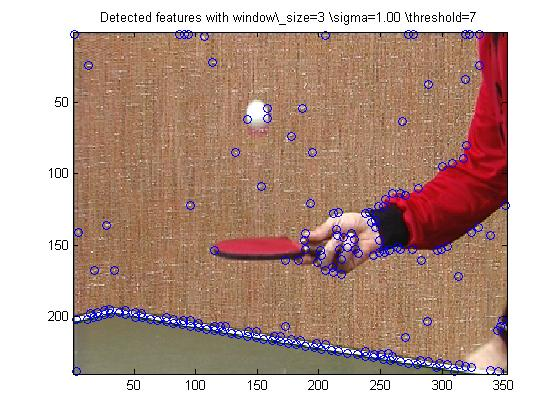
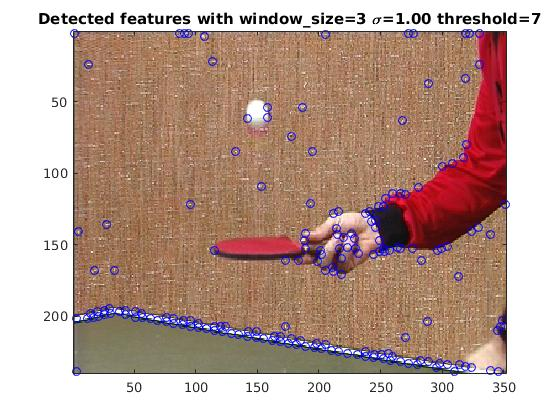
renamed gaussian derivative & correct gradient

diff --git a/3-assignment/harris_corners.m b/3-assignment/harris_corners.m
@@ -7,14 +7,14 @@ im = im2double(im_gray);
 
 
 %% Compute gaussian partial derivatives
-kernel_y = gaussian(sigma, kernel_length);
-kernel_x = kernel_y';
+kernel_x = gaussian(sigma, kernel_length);
+kernel_y = kernel_x';
 
 
 %% Convolve image with gaussian derivative
 % to obtain gradients in X and Y directions
-Ix = gaussianDer(im, kernel_x, sigma, 'x');
-Iy = gaussianDer(im, kernel_y, sigma, 'y');
+Ix = gaussian_der(im, kernel_x, sigma, 'x');
+Iy = gaussian_der(im, kernel_y, sigma, 'y');
 
 
 figure % Plot gradient images
@@ -73,7 +73,7 @@ c = c(c ~= 0);
 %% Plot feature points found over original image
 figure, imagesc(im_rgb)
 hold on, plot(r, c, 'bo')
-title(sprintf('Detected features with window\\_size=%d \\sigma=%.2f \\threshold=%d', window_size, sigma, threshold))
+title(sprintf('Detected features with window\\_size=%d \\sigma=%.2f threshold=%d', window_size, sigma, threshold))
 hold off
 
 end

diff --git a/3-assignment/gaussian_der.m b/3-assignment/gaussian_der.m
@@ -1,4 +1,4 @@
-function [ imOut ] = gaussianDer (im , G, sigma, orientation)
+function [ im_out ] = gaussian_der (im , G, sigma, orientation)
 
 kernel_length = length(G);
 siz = (kernel_length-1) / 2;
@@ -6,20 +6,20 @@ x = -siz:siz;
 
 % Determine the orientation of the derivative
 if strcmp(orientation, 'x')
-    Gd = (x'.* G) / (sigma^2); 
+    Gd = (x.* G) / (sigma^2); 
 elseif strcmp(orientation, 'y')
-        Gd = (x.* G) / (sigma^2);
-    else 
-        error('Not a valid orientation!')
+    Gd = (x'.* G) / (sigma^2);
+else 
+    error('Not a valid orientation!')
 end
 
 % Get image channels
 [~, ~, size_c] = size(im); 
 
 % Apply 2D kernel to image
-imOut = zeros(size(im));
+im_out = zeros(size(im));
 for i=1:size_c;
-    imOut(:,:,i) = conv2(im(:,:,i), Gd, 'same');
+    im_out(:,:,i) = conv2(im(:,:,i), Gd, 'same');
 end
 
 end

diff --git a/3-assignment/harris_test.m b/3-assignment/harris_test.m
@@ -8,7 +8,8 @@ window_size = 3;
 threshold = 7;
 [H, r, c] = harris_corners(im_path, kernel_length, sigma, window_size, threshold);
 figure, mesh(H), title('H surface plot')
-size(r)
+
+fprintf('%d keypoints detected\n', size(r, 1));
 
 im_rgb = imread(im_path);
 im = im2double(rgb2gray(im_rgb));
@@ -16,5 +17,5 @@ corners = corner(im);
 figure, imagesc(im_rgb), hold on
 plot(corners(:,1), corners(:,2), 'bo')
 title('Features detected using MATLAB corner function')
-size(corners)
+fprintf('%d keypoints detected with corners function\n', size(corners, 1));
 
